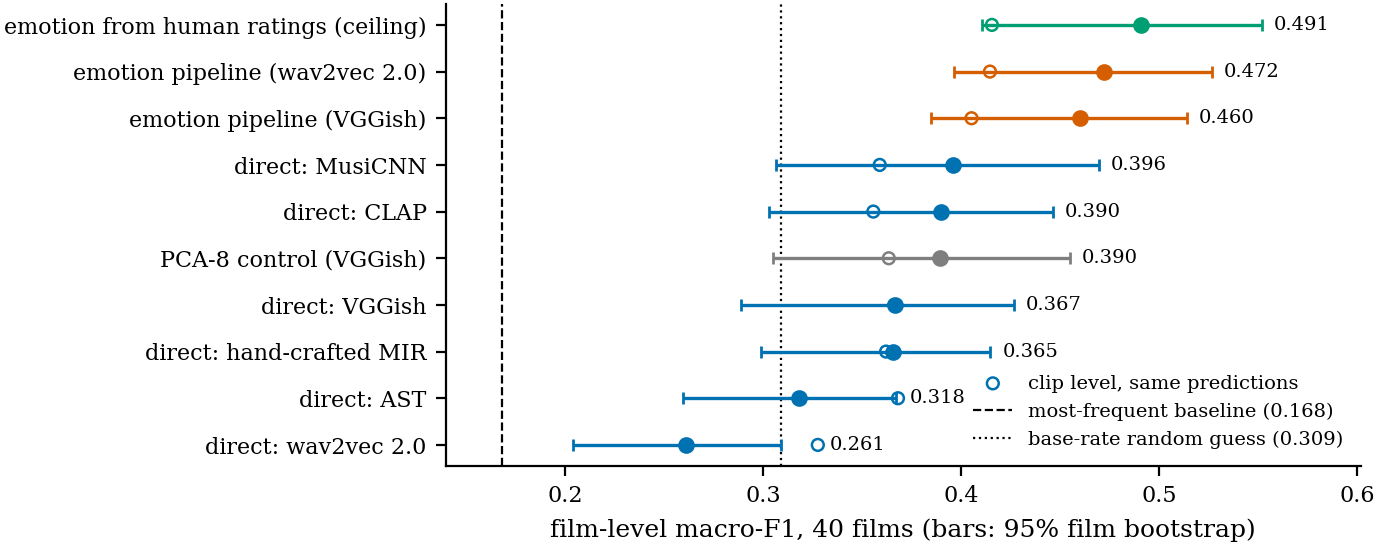
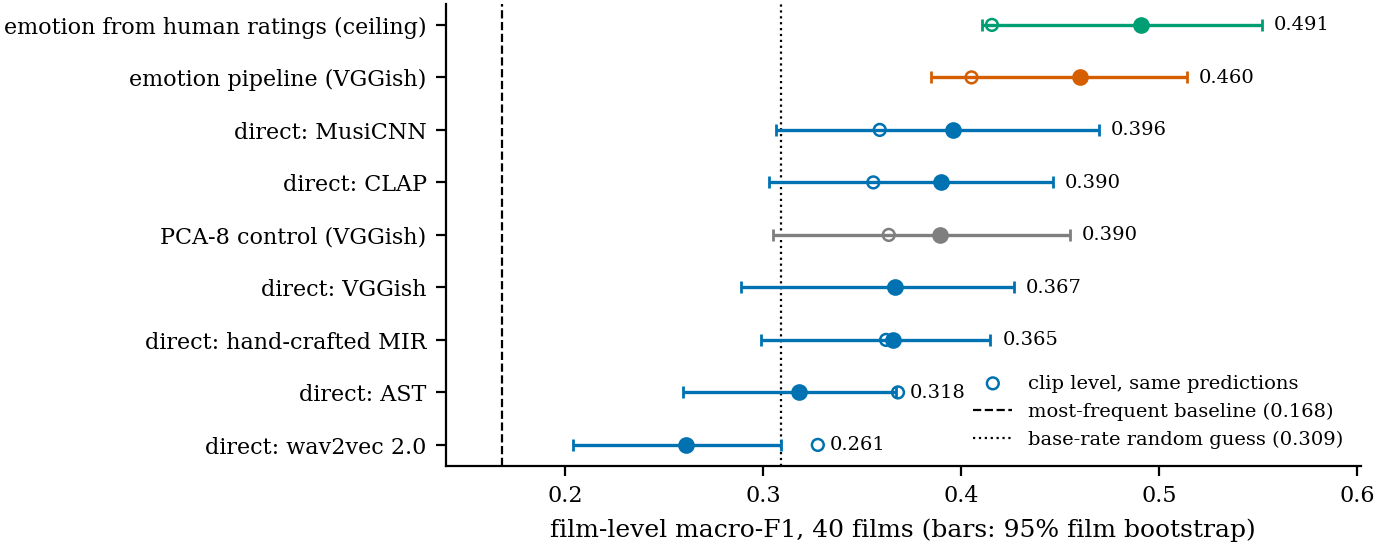
Supervisor feedback 17 Nov, first batch (log section 46; Overleaf 92bf476): Future Work, AI declaration, configuration table, RQ headings, Figure 5.2 without the wav2vec emotion pipeline

diff --git a/docs/latex/chapters/4_conclusion.tex b/docs/latex/chapters/4_conclusion.tex
@@ -65,58 +65,58 @@ direct audio model.
 \section{Future Work}
 \label{sec:futurework}
 
-The limitations in Section~\ref{sec:disc_limitations} indicate where further research could
-improve on this thesis. The following directions follow from them.
+Several experiments could build on this thesis. Some would test the present results on more
+data, some would transfer the emotion step to new kinds of data, and some would apply it in
+other domains.
 
-\paragraph{More films with emotion ratings.} The most important limitation is probably the number of films.
-Comedy and Horror rest on four and five films, and for the borderline clip-level
-comparisons the Nadeau--Bengio test could not become significant with any number of
-repeats (Appendix~\ref{subsec:statistical_power}). The learning curves were still rising at
-the full dataset size. A larger collection of film-music clips with both emotion ratings
-and genre labels would therefore be the most useful addition. It would allow the advantage
-over the strongest direct representations to be estimated with useful precision.
+\paragraph{A larger replication with fixed decisions.} The most direct next step is a
+replication on a larger collection of film-music clips with emotion ratings and genre
+labels. The unit of evaluation, the genre set, the threshold policy and the main comparisons
+should be fixed before the data are analysed. Such a study could test two leads that this
+thesis could only observe: the advantage of the emotion pipeline over the strongest direct
+representations, and the lead of CLAP with ridge regression, which was found after the
+results were known ($+0.032$, $p=0.112$; Appendix~\ref{sec:app_grid}). The same collection
+could include a genre judgement for every single clip, which would separate errors of the
+model from the fact that IMDb labels describe whole films.
 
-\paragraph{A second dataset with audio and ratings.} The Blockbuster dataset provides
-neither audio nor emotion ratings. The transfer therefore had to use VGGish, and the emotions predicted for the Blockbuster films could not be checked against ratings. A second dataset with audio and its own emotion ratings would make three
-tests possible. Stage~1 could be evaluated directly on new films. The signatures could be
-compared between two independent listener panels. Representations other than VGGish could
-be used across datasets.
+\paragraph{Transfer with audio and ratings on both sides.} The Blockbuster dataset has
+neither audio nor emotion ratings, so the transfer in this thesis was limited to VGGish and
+could not check the predicted emotions. A second dataset with audio and its own ratings would
+allow Stage~1 to be tested on new films and any representation to be transferred. It would
+also allow a few rated clips of the new dataset to be used to adapt Stage~1 before genre is
+predicted. Comparing this adaptation with zero-shot transfer would show how much labelled
+data a new collection needs.
 
-\paragraph{A confirmatory test of other pipeline components.} CLAP with ridge regression
-was the best entry of the comparison over representations and regressors, but its lead over
-the VGGish pipeline was identified after the results were known and is not significant
-($+0.032$, $p=0.112$; Appendix~\ref{sec:app_grid}). It should be tested on films that were
-not used in this thesis, with the comparison fixed before the data are analysed.
+\paragraph{New sources of film music.} The emotion step could be transferred to other kinds
+of audiovisual music. Trailers are a natural target, because their music is edited to
+advertise the genre, and trailer audio has already been used for genre classification
+\citep{mangolin2020multimodal}. Films from other film industries and periods would show
+whether the emotional conventions of genres found here hold beyond the films of this dataset.
+Television series and video games use similar conventions and could be tested in the same
+way.
 
-\paragraph{A better emotion model for extreme ratings.} Stage~1 reaches about 62\,\% of the
-attainable $R^2$ and underestimates the strongest emotions, which appears to cause much of the
-weakness on Horror. Future work could test regressors that are less prone to regression towards the
-mean, more training clips with extreme ratings, or audio models fine-tuned on emotion
-ratings instead of frozen embeddings. Such work should report genre results as well,
+\paragraph{A stronger emotion model.} Stage~1 reaches about 62\,\% of the attainable $R^2$
+and underestimates the strongest emotions, which appears to cause much of the weakness on
+Horror. Audio models fine-tuned on emotion ratings, instead of frozen embeddings, could be
+compared with the random forest. Each such model should be evaluated on genre as well,
 because a more accurate emotion model did not reliably yield a better genre result in this
 thesis (Section~\ref{subsec:eval_grid}).
 
-\paragraph{Calibrated probabilities and the operating point.} Much of the advantage of the
-emotion pipeline depends on the default threshold of 0.5, close to which its probabilities
-lie. Calibrating the predicted probabilities, or choosing thresholds per genre in a way
-that remains reliable for rare genres \citep{lipton2014optimal}, would separate the quality
-of the ranking from the choice of the operating point. Threshold-free measures such as
-ROC-AUC should be reported beside macro-$F_1$ from the start.
+\paragraph{Calibration and thresholds as part of the design.} Much of the advantage of the
+emotion pipeline depends on the default threshold of 0.5. A future study could compare
+calibrated probabilities with thresholds chosen per genre \citep{lipton2014optimal} and
+report a threshold-free measure such as ROC-AUC beside macro-$F_1$ from the start.
 
-\paragraph{Labels and listeners.} The genre labels come from IMDb and describe the film,
-not the clip, and the ratings come from a single listener panel. Genre judgements for
-single clips, and emotion ratings from listeners of other musical cultures, could show how
-much of the remaining error comes from the labels and how general the signatures are.
+\paragraph{Emotion in multimodal models.} Audio alone is a weak source of genre information
+compared with images and text \citep{mangolin2020multimodal}. The emotion step could serve
+as an interpretable audio component beside trailer frames or the plot synopsis
+\citep{behrouzi2023multimodal}. Such a model would show whether the emotions still add
+information when stronger sources are available, and it would allow a genre prediction to
+be explained partly in terms of the music.
 
-\paragraph{Emotion as one component of a multimodal model.} Audio alone is a weak source of
-genre information compared with images and text \citep{mangolin2020multimodal}. A
-multimodal model could include the emotion step as an interpretable audio component beside
-trailer images or the plot synopsis \citep{behrouzi2023multimodal}. Such a study could show
-whether the emotions remain useful when stronger sources of information are available.
-
-\paragraph{Methodological lessons.} I made some decisions after the first results were known. I adopted film-level scoring after the clip-level analysis, and I chose the five-genre subset partly because its genres carry an emotional signature in the
-same data. Both are reported in this thesis, but further studies could avoid them. The unit
-of evaluation, the genre set, the threshold policy and the main comparisons should be fixed
-before the experiments. Cross-validation should be grouped by film from the start, and every
-score should be reported beside both chance floors, the all-positive reference and a
-threshold-free measure.
+\paragraph{Applications in other domains.} An emotion step between audio and a category
+could be useful wherever music has to fit a purpose. Examples are the search for music in
+production libraries for a scene of a given mood or genre, music recommendation that can
+state why a piece was chosen, and the tagging of music for advertising or games. In each
+case the emotions would make the decision readable for the user, which this thesis suggests
+is their main strength.

diff --git a/docs/latex/chapters/supplementary.tex b/docs/latex/chapters/supplementary.tex
@@ -395,7 +395,7 @@ penalty, and gradient boosting for its tree depth and learning rate. The classif
 uses the logistic regression with the chosen $C$ and passes each genre's prediction on to
 the next genre.
 
-\begin{table}[tbp]
+\begin{table}[!htb]
   \centering
   \small
   \caption{Stage~2 with five classifiers: macro-$F_1$ on the five-genre subset.}
@@ -709,3 +709,39 @@ the observation that one to three emotions retain most of that signal. The secon
 sadness to happiness, and energy lies on its upper side. Figure~\ref{fig:circumplex} stays a
 schematic of the models from the literature. This section shows what these models look like in
 the ratings used here.
+
+% =============================================================================
+\section{Model Configurations}
+\label{sec:app_config}
+
+Table~\ref{tab:app_config} lists the settings of every model and of the evaluation. Settings
+that are not listed are the defaults of scikit-learn~1.5.1.
+
+\begin{table}[!htb]
+  \centering
+  \small
+  \caption{Model and evaluation settings.}
+  \label{tab:app_config}
+  \begin{tabular}{@{}>{\raggedright\arraybackslash}p{0.27\textwidth}>{\raggedright\arraybackslash}p{0.67\textwidth}@{}}
+    \toprule
+    Component & Setting \\
+    \midrule
+    \multicolumn{2}{@{}l}{\textit{Stage 1: emotions from audio}} \\
+    Random forest regressor & 300 trees, all features considered at each split, minimum leaf size 1, bootstrap samples; one model for all eight emotions \\
+    Predicted emotions for training Stage~2 & Out-of-fold predictions, five inner folds grouped by film \\
+    Ridge regression & Standardised inputs; $\alpha$ from 13 values between $10^{-1}$ and $10^{5}$ (logarithmic), three inner folds grouped by film \\
+    SVR & Standardised inputs, RBF kernel, $C=10$, $\gamma$ = 1 / (number of features $\times$ variance of the inputs), $\epsilon=0.1$ \\
+    \midrule
+    \multicolumn{2}{@{}l}{\textit{Stage 2: genre}} \\
+    Input & Eight emotions and three derived features (Section~\ref{sec:methods_stage1}), or an embedding, or the PCA-8 control \\
+    Logistic regression & One per genre, L2 penalty, $C$ from $\{0.003, 0.01, 0.03, 0.1, 0.3, 1\}$ by three inner folds grouped by film (macro-$F_1$, ties to the smaller $C$), balanced class weights, standardised inputs, at most 2000 iterations, threshold 0.5 \\
+    PCA-8 control & Standardised VGGish embedding, eight principal components, fitted on the training fold \\
+    Other classifiers & Settings and grids in Appendix~\ref{sec:app_stage2} \\
+    \midrule
+    \multicolumn{2}{@{}l}{\textit{Evaluation}} \\
+    Cross-validation & Five folds grouped by film, ten repeats; master seed 42, seeds 1 to 4 for the stability check \\
+    Bootstrap & 2000 paired draws over films, two-sided \\
+    Tuned thresholds & One per genre from 0.10 to 0.90 in steps of 0.025, chosen on out-of-fold predictions of the source data (five folds grouped by film, ten repeats) \\
+    \bottomrule
+  \end{tabular}
+\end{table}

diff --git a/docs/latex/chapters/2_analysis.tex b/docs/latex/chapters/2_analysis.tex
@@ -280,4 +280,4 @@ The second question is how stable the cross-validated numbers are. Three sources
 
 The implementation is written in Python~3.12 and runs on a central processing unit (CPU). For deep learning, only PyTorch \citep{paszke2019pytorch} is used. AST (checkpoint \texttt{MIT/ast-finetuned-audioset-10-10-0.4593}), CLAP (\texttt{laion/clap-htsat-unfused}) and wav2vec~2.0 (\texttt{facebook/wav2vec2-base}) are loaded through the Hugging Face \texttt{transformers} library \citep{wolf2020transformers}. VGGish is loaded through the \texttt{torchvggish} port. The hand-crafted descriptors are computed with librosa, and all regression, classification and cross-validation uses scikit-learn \citep{pedregosa2011scikit}. MusiCNN is only available for TensorFlow, so I ran it in a separate environment (TensorFlow~2.15 on Python~3.11). It is connected to the rest of the project only through the embedding cache, and no other part of the code depends on TensorFlow.
 
-The random seed is fixed at 42 throughout. The embeddings are extracted once, cached per clip and kept under version control. Every result can therefore be reproduced from these cached files without running any neural network over the audio. Each experiment is a self-contained script. Every main experiment writes all its scores per fold and per repeat to a machine-readable results file. Every aggregate in Chapter~\ref{ch:evaluation} can thus be derived again without relying on the text. Where a protocol was corrected, the corrected run scores exactly the folds of the earlier run again. It also checks that it reproduces the earlier figures under the old metric, so that any difference can be attributed to the correction alone.
+Table~\ref{tab:app_config} (Appendix~\ref{sec:app_config}) lists every model and evaluation setting. The random seed is fixed at 42 throughout. The embeddings are extracted once, cached per clip and kept under version control. Every result can therefore be reproduced from these cached files without running any neural network over the audio. Each experiment is a self-contained script. Every main experiment writes all its scores per fold and per repeat to a machine-readable results file. Every aggregate in Chapter~\ref{ch:evaluation} can thus be derived again without relying on the text. Where a protocol was corrected, the corrected run scores exactly the folds of the earlier run again. It also checks that it reproduces the earlier figures under the old metric, so that any difference can be attributed to the correction alone.

diff --git a/docs/latex/chapters/discussion.tex b/docs/latex/chapters/discussion.tex
@@ -33,8 +33,8 @@ tension without happiness. Fear is the most discriminating emotion overall, foll
 valence. Adventure has no signature, possibly because it occurs together with several other genres
 and shares their emotional range. The signatures rest on one listener panel and one collection of films, so whether they hold elsewhere remains open.
 
-\paragraph{RQ3: How does the emotion pipeline compare with classifying genre directly from
-audio within one dataset?} The answer has two parts. At the default threshold the emotion
+\paragraph{RQ3: How well can genre be predicted from emotions compared with predicting it
+directly from the same audio representation?} The answer has two parts. At the default threshold the emotion
 pipeline is consistently ahead of direct audio, in nearly every repeat and under every seed
 (Section~\ref{sec:eval_direct}). The size of its lead over the strongest direct
 representations, however, cannot be estimated reliably on 40 films. The advantage does not appear to depend on
@@ -44,7 +44,8 @@ wav2vec~2.0, whose emotions are the least accurate, gives a genre result compara
 once its output passes through the emotions. This suggests that the genre classifier does not
 depend mainly on the most accurate estimate per clip from Stage~1.
 
-\paragraph{RQ4: How well do the pipelines generalise to another dataset?} Much of the genre
+\paragraph{RQ4: How well do the two pipelines generalise when a model trained on one dataset
+is applied to another?} Much of the genre
 information transfers: trained on Eerola alone, the emotion pipeline reaches 0.508 on the 110
 Blockbuster films, about 82\,\% of what in-domain training reaches
 (Section~\ref{sec:zero_shot}). At the default threshold it transfers better than direct

diff --git a/experiments/make_figures.py b/experiments/make_figures.py
@@ -103,7 +103,8 @@ def fig_indomain():
     label = {
         "ground-truth emotion(11) [ceiling]": "emotion from human ratings (ceiling)",
         "VGGish -> predicted emotion(11), OOF-trained": "emotion pipeline (VGGish)",
-        "wav2vec2 -> predicted emotion(11), OOF-trained": "emotion pipeline (wav2vec 2.0)",
+        # the wav2vec 2.0 emotion pipeline was dropped here (author, 17 Nov): Figure 5.3
+        # shows every emotion pipeline, so this figure keeps only the thesis pipeline
         "VGGish-128 (direct)": "direct: VGGish",
         "AST-768": "direct: AST",
         "CLAP-512": "direct: CLAP",

diff --git a/docs/README.md b/docs/README.md
@@ -2496,3 +2496,44 @@ of Chapter 7 say that one logistic regression per genre lets a film receive seve
 Correction (16 Nov, author): the supervisor meeting that sections 38 to 40 call "the meeting of 12 Nov" took place on 9 Nov; the work after it was done on 12 Nov. The supervisor last saw `_Thesis_09.11.pdf`.
 
 Sent to the supervisor (16 Nov): `_Thesis_16.11_2nd.pdf` (Overleaf `a8e8bf7`, 110 pages) shared on Drive with an email listing the changes since `_Thesis_09.11.pdf` and asking him to check the AI declaration. Next meeting 18 Nov; planned submission 20 Nov.
+
+## 46. Supervisor feedback of 17 Nov and the author's comments in `_Thesis_16.11_2nd.pdf`
+
+Ernst's email (17 Nov) has four points: Future Work reads like Limitations; the appendix should
+hold results, figures, tables and model configurations, not explanations, and whatever matters
+for the research questions belongs, motivated, in the main text; hyperparameters must be given;
+the AI declaration should lie between the detailed version of 09.11 and the short one, split by
+kind of work (implementation, experiment design, ...) with the writing summarised, not per
+chapter. The author's nine comments (eight in the PDF, one only on Drive) are answered beside them.
+
+First batch (Overleaf `ce4c28f`, `14d3dee`, `92bf476`; compiled in Chrome: 0 errors, no overfull
+box, 112 pages):
+- Chapter 7.2 Future Work rewritten as future experiments: a larger replication with decisions
+  fixed in advance (tests the emotion pipeline's lead and the post-hoc CLAP + ridge lead; clip-level
+  genre judgements), transfer with audio and ratings on both sides (few-shot adaptation of Stage 1
+  against zero-shot), new sources of film music (trailers, other film industries and periods, TV,
+  games), a stronger emotion model, calibration and thresholds as part of the design, emotion in
+  multimodal models, applications in other domains (production-music search, explainable
+  recommendation, tagging for advertising and games). "Labels and listeners" and "Methodological
+  lessons" left it (both are limitations, Section 6.4). Only citations already in the thesis.
+- AI declaration: one paragraph on system, period and purpose, the four levels defined, and a table
+  by kind of work (implementation generated; experiment design and analysis assisted; figures and
+  tables generated; literature assisted; thesis text drafted, "all chapters, Appendix A and the
+  abstract", revised and modified; language edited). One page with the signature.
+- Hyperparameters: new Appendix section `sec:app_config` (last in Appendix A) with Table
+  `tab:app_config` (Stage 1 random forest, out-of-fold emotions, ridge and SVR; Stage 2 logistic
+  regression, input, PCA-8, pointer to A.6; cross-validation, bootstrap, tuned thresholds), every
+  value from the code (`exp_film_level.py`, `exp_emotion_pipeline_grid.py`,
+  `exp_zero_shot_threshold.py`, `src/models/classifiers.py`; scikit-learn 1.5.1 defaults otherwise).
+  Methods 4.7 points to it.
+- Discussion 6.1: the RQ3 and RQ4 headings now use the wording of Section 1.2.
+- Abbreviations: RQ row removed (author); the MIL row's ``bag'' quote closed.
+- Figure 5.2 without the wav2vec 2.0 emotion pipeline (author; Figure 5.3 shows every emotion
+  pipeline); `make_figures.py indomain`.
+- Table A.5 (Stage 2 classifiers) placed `[!htb]`: it now follows its first mention, and Section A.7
+  is on the same page.
+
+Still open, for the meeting of 18 Nov: which appendix analyses move into the main text and how far
+the appendix prose is cut (about 4,700 words now); a shorter Section 7.1 (the RQ answers are in
+6.1); the "Overall conclusion" paragraph (the author wants Ernst's opinion).
+
